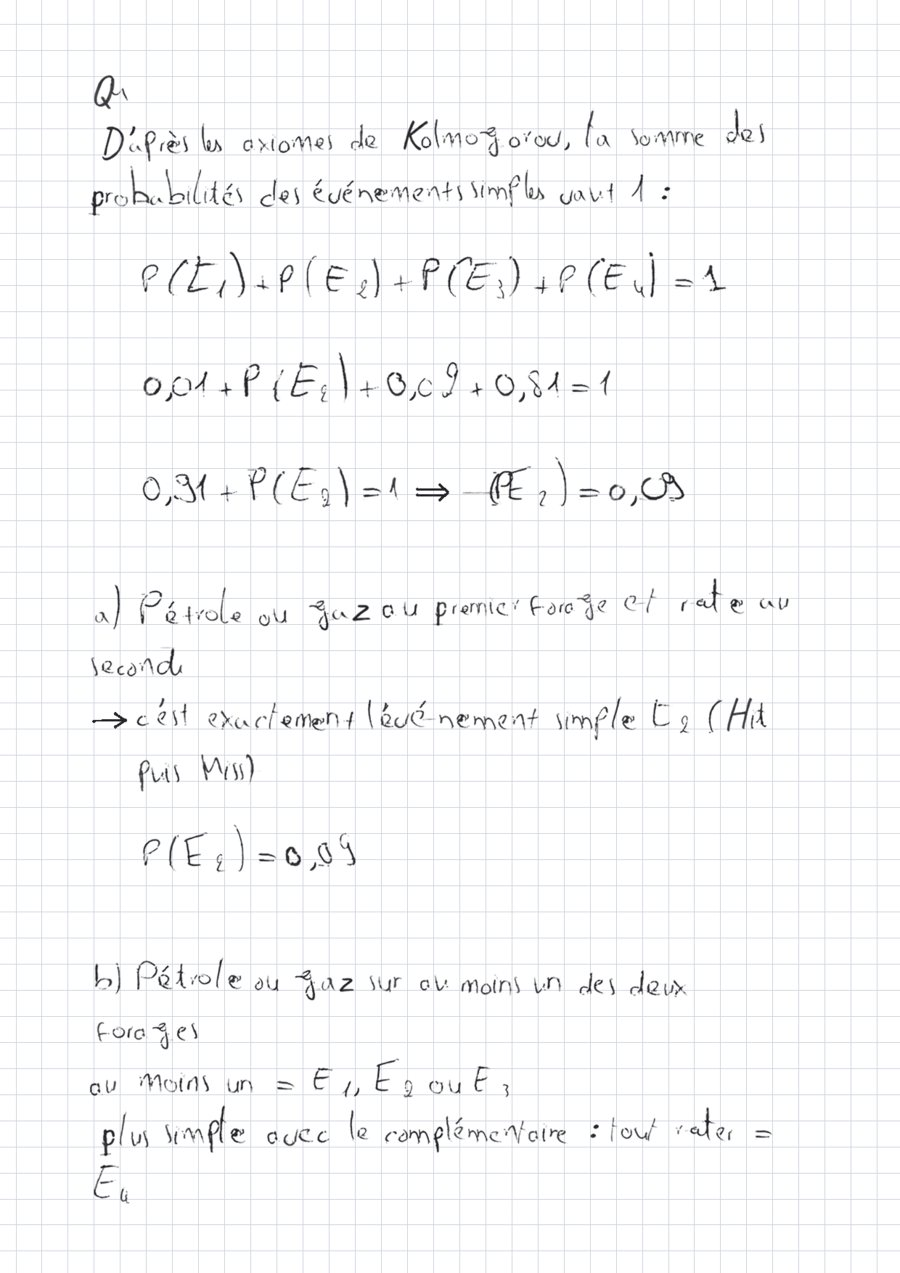
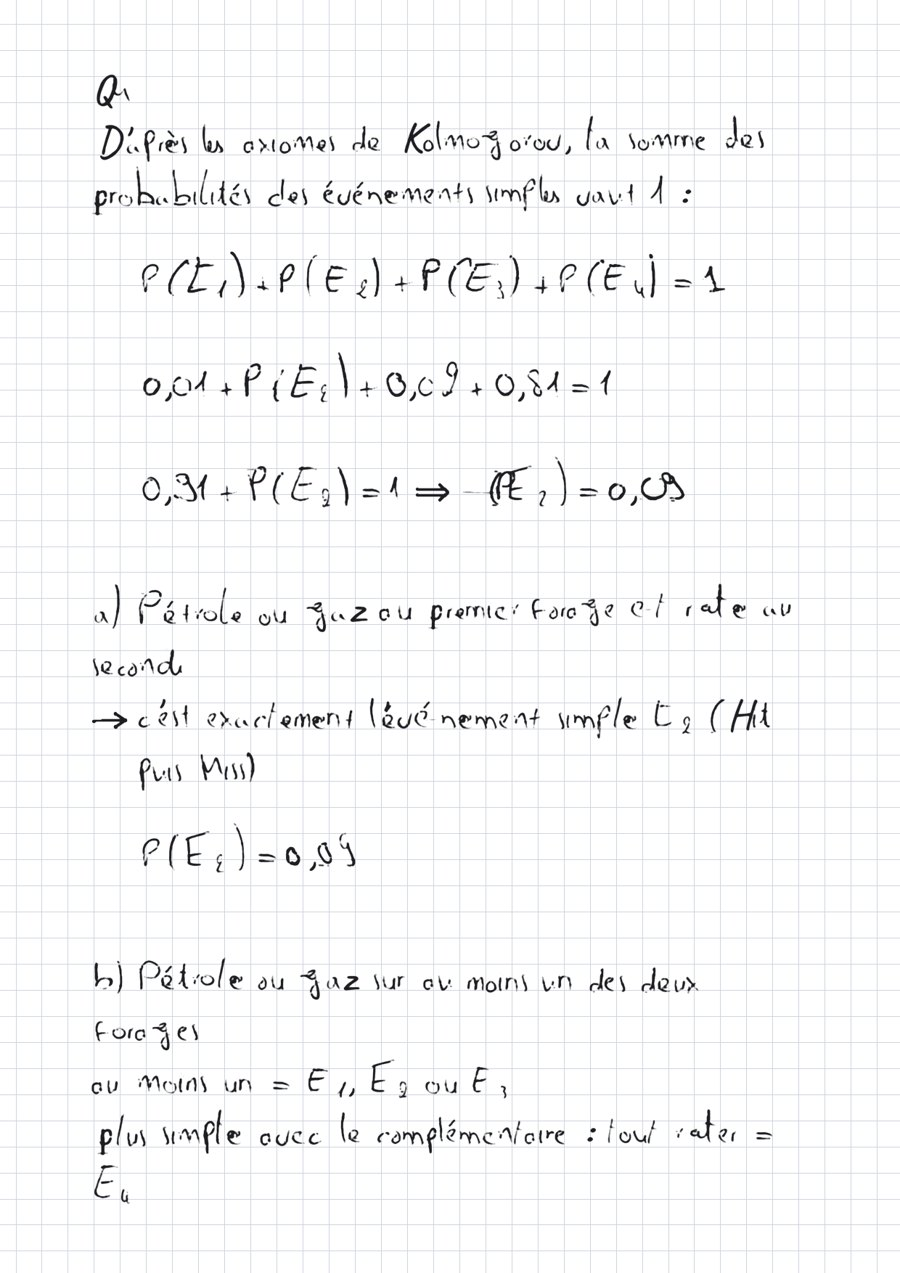
iPad style: solid even ink and tidy lines; ballpoint texture only for the notebook photo

diff --git a/scripts/handnotes.py b/scripts/handnotes.py
@@ -893,7 +893,8 @@ class MathLayout:
 
 
 class Page:
-    def __init__(self, paper, inks):
+    def __init__(self, paper, inks, pen="ballpoint"):
+        self.pen = pen  # "ballpoint" (paper: pressure and grain) or "digital" (tablet: solid, even ink)
         self.paper = paper
         self.hl = Image.new("RGB", paper.size, (255, 255, 255))
         self.masks = {}
@@ -918,6 +919,13 @@ class Page:
 
     def finish(self):
         out = ImageChops.multiply(self.paper, self.hl.filter(ImageFilter.GaussianBlur(1.2)))
+        if self.pen == "digital":  # Apple Pencil look: every stroke fully opaque, smooth edges
+            for ink, m in self.masks.items():
+                col = Image.new("RGB", out.size, INKS.get(ink, INKS["black"]))
+                a = np.asarray(m.filter(ImageFilter.GaussianBlur(0.9)), dtype=np.float32) / 255.0
+                a = np.clip(a * 2.4 - 0.35, 0, 1)  # smooth photo-cut edges into a clean pencil line
+                out = Image.composite(col, out, Image.fromarray((a * 255).astype(np.uint8)))
+            return out
         W, H = out.size
         rng = np.random.default_rng(len(self.masks) * 7919 + W)
         # slow pressure changes (big blobs) and paper grain (pixel noise)
@@ -935,7 +943,7 @@ class Page:
 
 class Renderer:
     def __init__(self, source, paper="grid", page="a4", size="medium", ink="black",
-                 accent="blue", important="red", bullet="arrow", seed=None, mess=1.0, drift=0.0):
+                 accent="blue", important="red", bullet="arrow", seed=None, mess=1.0, drift=0.0, pen="ballpoint"):
         self.src = source
         self.rng = random.Random(seed)
         (self.W, self.H), width_mm = PAGES[page]
@@ -962,6 +970,7 @@ class Renderer:
         self.bullet = bullet
         self.mess = mess
         self.drift = drift  # average downward slope of lines, in degrees
+        self.pen = pen
         self.pages = []
         self._math = {}
         self.new_page()
@@ -970,7 +979,7 @@ class Renderer:
     def new_page(self):
         paper = make_paper(self.paper_kind, (self.W, self.H), self.line_h, self.first_base,
                            self.margin_x, self.mm, self.rng)
-        self.page = Page(paper, INKS)
+        self.page = Page(paper, INKS, self.pen)
         self.pages.append(self.page)
         self.base = self.first_base
 
@@ -1989,7 +1998,7 @@ def main(argv=None):
     r.add_argument("--important", default="red", choices=list(INKS))
     r.add_argument("--bullet", default="arrow", choices=["arrow", "dot", "dash"])
     r.add_argument("--size", default="medium", choices=list(SIZES))
-    r.add_argument("--mess", type=float, default=1.0, help="0.5 neat ... 1.5 rushed")
+    r.add_argument("--mess", type=float, default=None, help="0.5 neat ... 1.5 rushed (default: 0.5 ipad, 1.35 notebook)")
     r.add_argument("--seed", type=int)
 
     sg = sub.add_parser("segment", help="cut letters out of photos of notes already written; makes sheets to label")
@@ -2012,6 +2021,9 @@ def main(argv=None):
     if a.cmd == "render":
         text = sys.stdin.read() if a.input == "-" else Path(a.input).read_text(encoding="utf-8")
         style = STYLES[a.style]
+        a.mess_set = a.mess is not None
+        if a.mess is None:
+            a.mess = 1.0
         paper = a.paper or style["paper"]
         ink = a.ink or style["ink"]
         photo = style["photo"]
@@ -2028,7 +2040,9 @@ def main(argv=None):
             src = HandSource(hand, src)
         rd = Renderer(src, paper=paper, page=a.page, size=a.size, ink=ink, accent=a.accent,
                       important=a.important, bullet=a.bullet, seed=a.seed,
-                      mess=max(a.mess, 1.35) if photo else a.mess, drift=1.3 if photo else 0.0)
+                      mess=max(a.mess, 1.35) if photo else (a.mess if a.mess_set else 0.5),  # tablet: tidy writing
+                      drift=1.3 if photo else 0.0,
+                      pen="ballpoint" if photo else "digital")
         pages = rd.render(parse_blocks(text))
         if photo:
             pages = [photoize(pg, rd.rng, rd.mm) for pg in pages]

diff --git a/README.md b/README.md
@@ -31,7 +31,7 @@ Ask in plain words:
 1. **Your handwriting:** send **as many photos of your writing as you can** (notes, homework, any pages). More pages mean more samples of each letter and a more natural result; 3 to 6 pages is good. If you send none, a default handwriting is used.
 2. **The look:**
    - **notebook** (default): a phone photo of a real page, with uneven light, lines drifting down, and a sheet that is not quite straight.
-   - **ipad**: a clean tablet page.
+   - **ipad**: a clean tablet page, with solid, even Apple Pencil ink and straight, tidy lines.
 3. **The paper:** squared, lined, college ruled, French Seyès, dots, grid or blank.
 4. **The input:** text, PDF, photo, anything. The AI reads it, OCR included, and writes the page.
 5. **The output:** PDF or PNG.

diff --git a/SKILL.md b/SKILL.md
@@ -59,7 +59,7 @@ That gives the default: a notebook photo, squared paper, blue ink, default handw
 
 | option | values |
 |---|---|
-| `--style` | **notebook** (phone photo of a real page: uneven light, lines drifting down, tilted sheet) · ipad (clean tablet page) |
+| `--style` | **notebook** (phone photo of a real page: uneven light, lines drifting down, tilted sheet, ballpoint ink) · ipad (clean tablet page: solid even ink, straight tidy lines) |
 | `--paper` | **squared** (notebook) or **grid** (ipad), lines, college, seyes, dots, blank |
 | `--hand` | **default**, or a folder made by `build-hand` or `learn` |
 | `--font` | use a handwriting font instead: caveat, kalam, patrick, gochi, indie, playpen |
